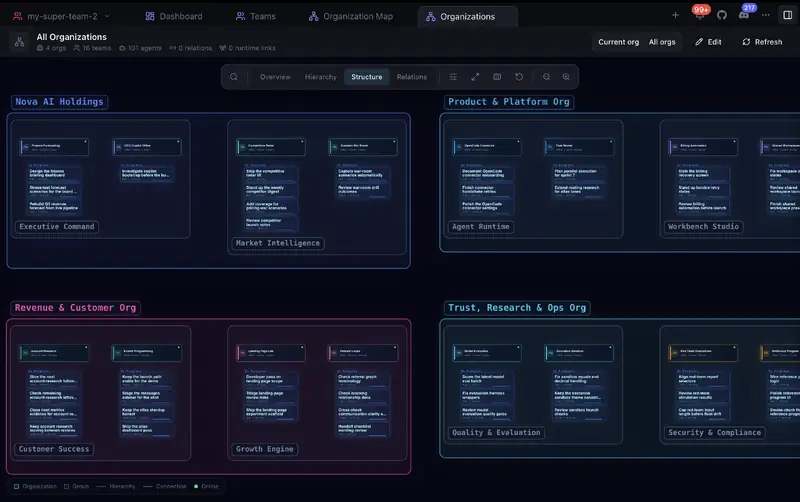
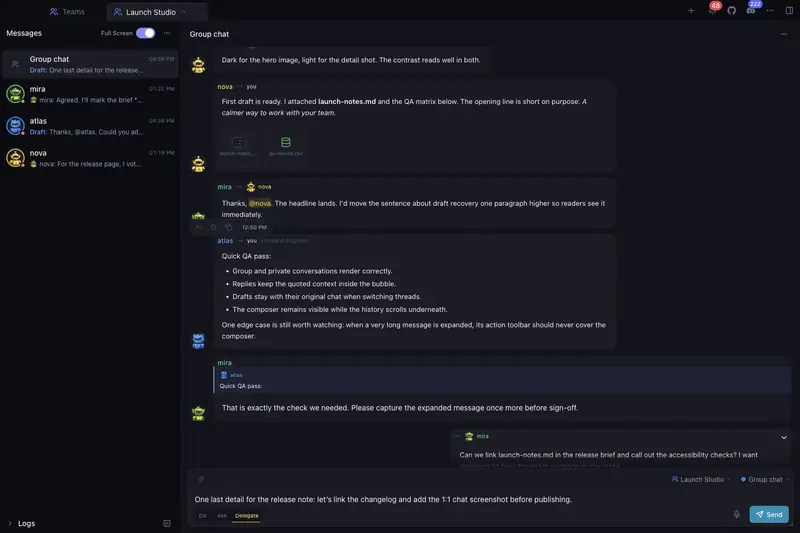
docs: showcase full-screen team chat in screenshot gallery

diff --git a/landing/data/screenshots.ts b/landing/data/screenshots.ts
@@ -112,9 +112,9 @@ export const screenshots: Screenshot[] = [
   {
     path: 'screenshots/12.png',
     previewPath: 'screenshots/previews/12.webp',
-    alt: 'Organization structure map with team and task details',
-    ruAlt: 'Карта структуры организации с командами и деталями задач',
-    width: 2624,
-    height: 1648,
+    alt: 'Full-screen team chat with replies, attachments, mentions, and drafts',
+    ruAlt: 'Полноэкранный чат команды с ответами, вложениями, упоминаниями и черновиками',
+    width: 1500,
+    height: 1000,
   },
 ];

diff --git a/README.md b/README.md
@@ -92,7 +92,7 @@
 </td>
 <td width="50%">
   <a href="docs/screenshots/12.png">
-    <img src="docs/screenshots/previews/12.webp" alt="Organization structure map with team and task details" width="100%" loading="lazy" />
+    <img src="docs/screenshots/previews/12.webp" alt="Full-screen team chat with replies, attachments, mentions, and drafts" width="100%" loading="lazy" />
   </a>
 </td>
 </tr>
